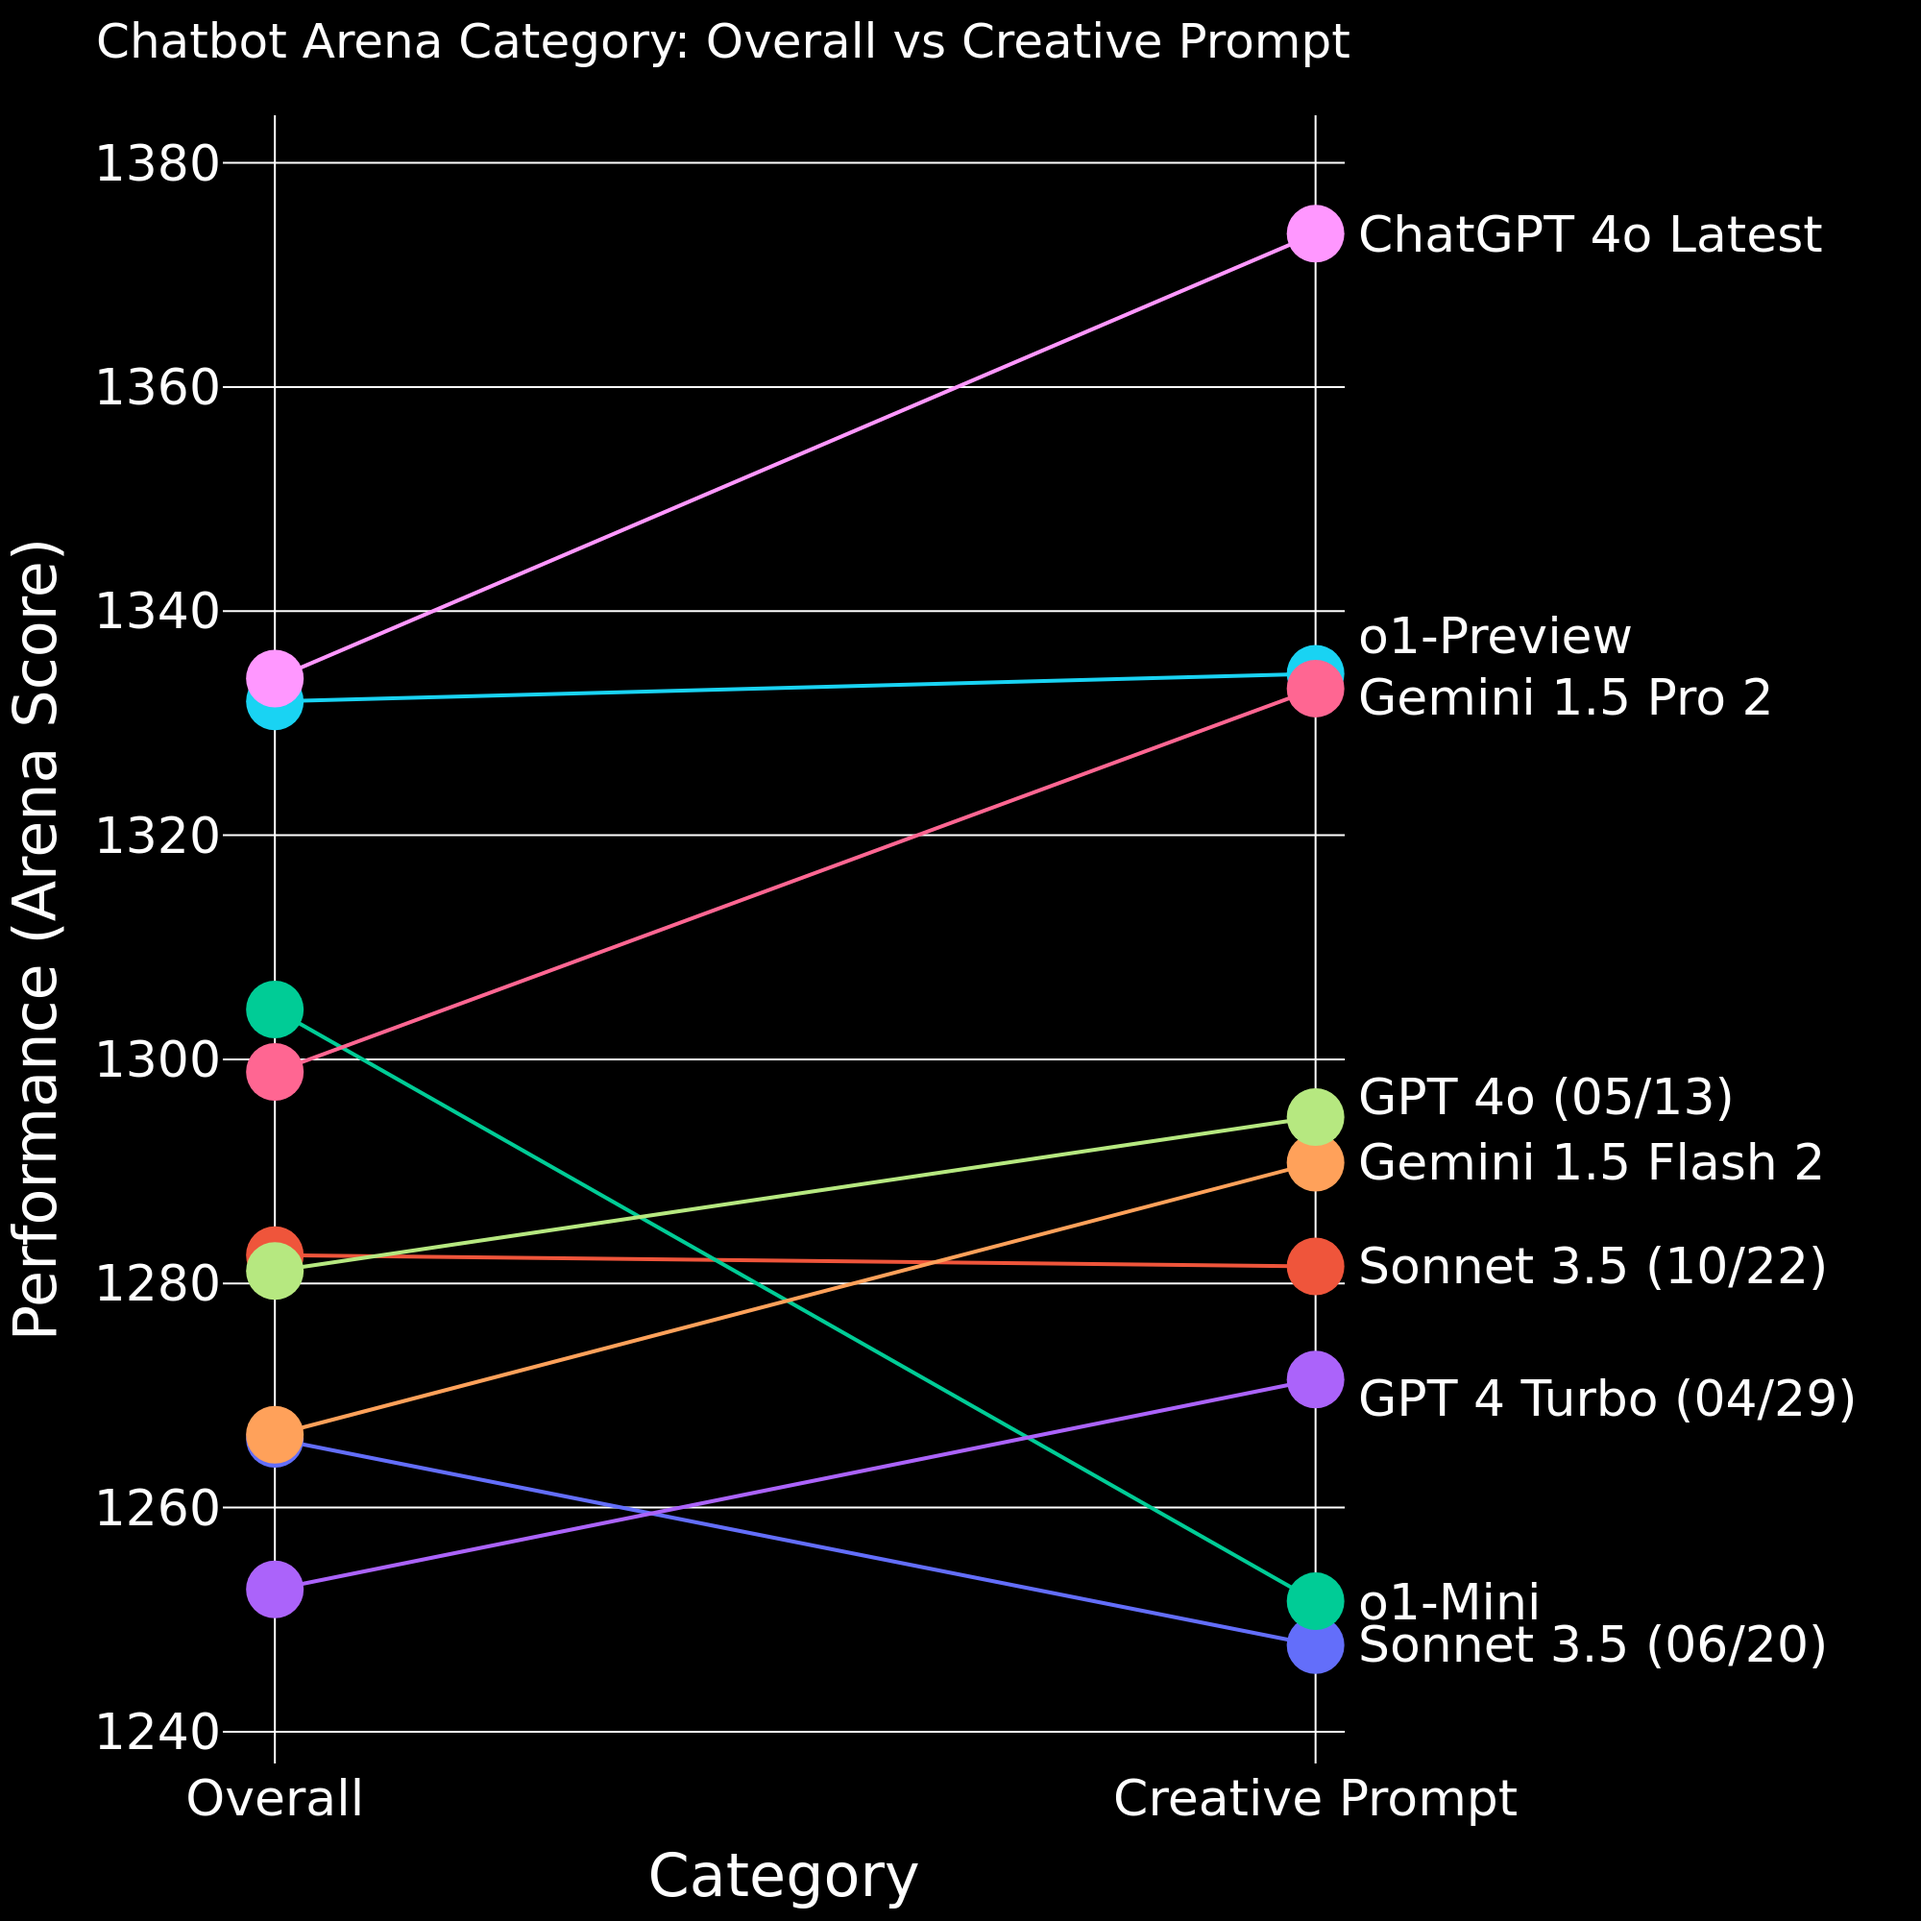
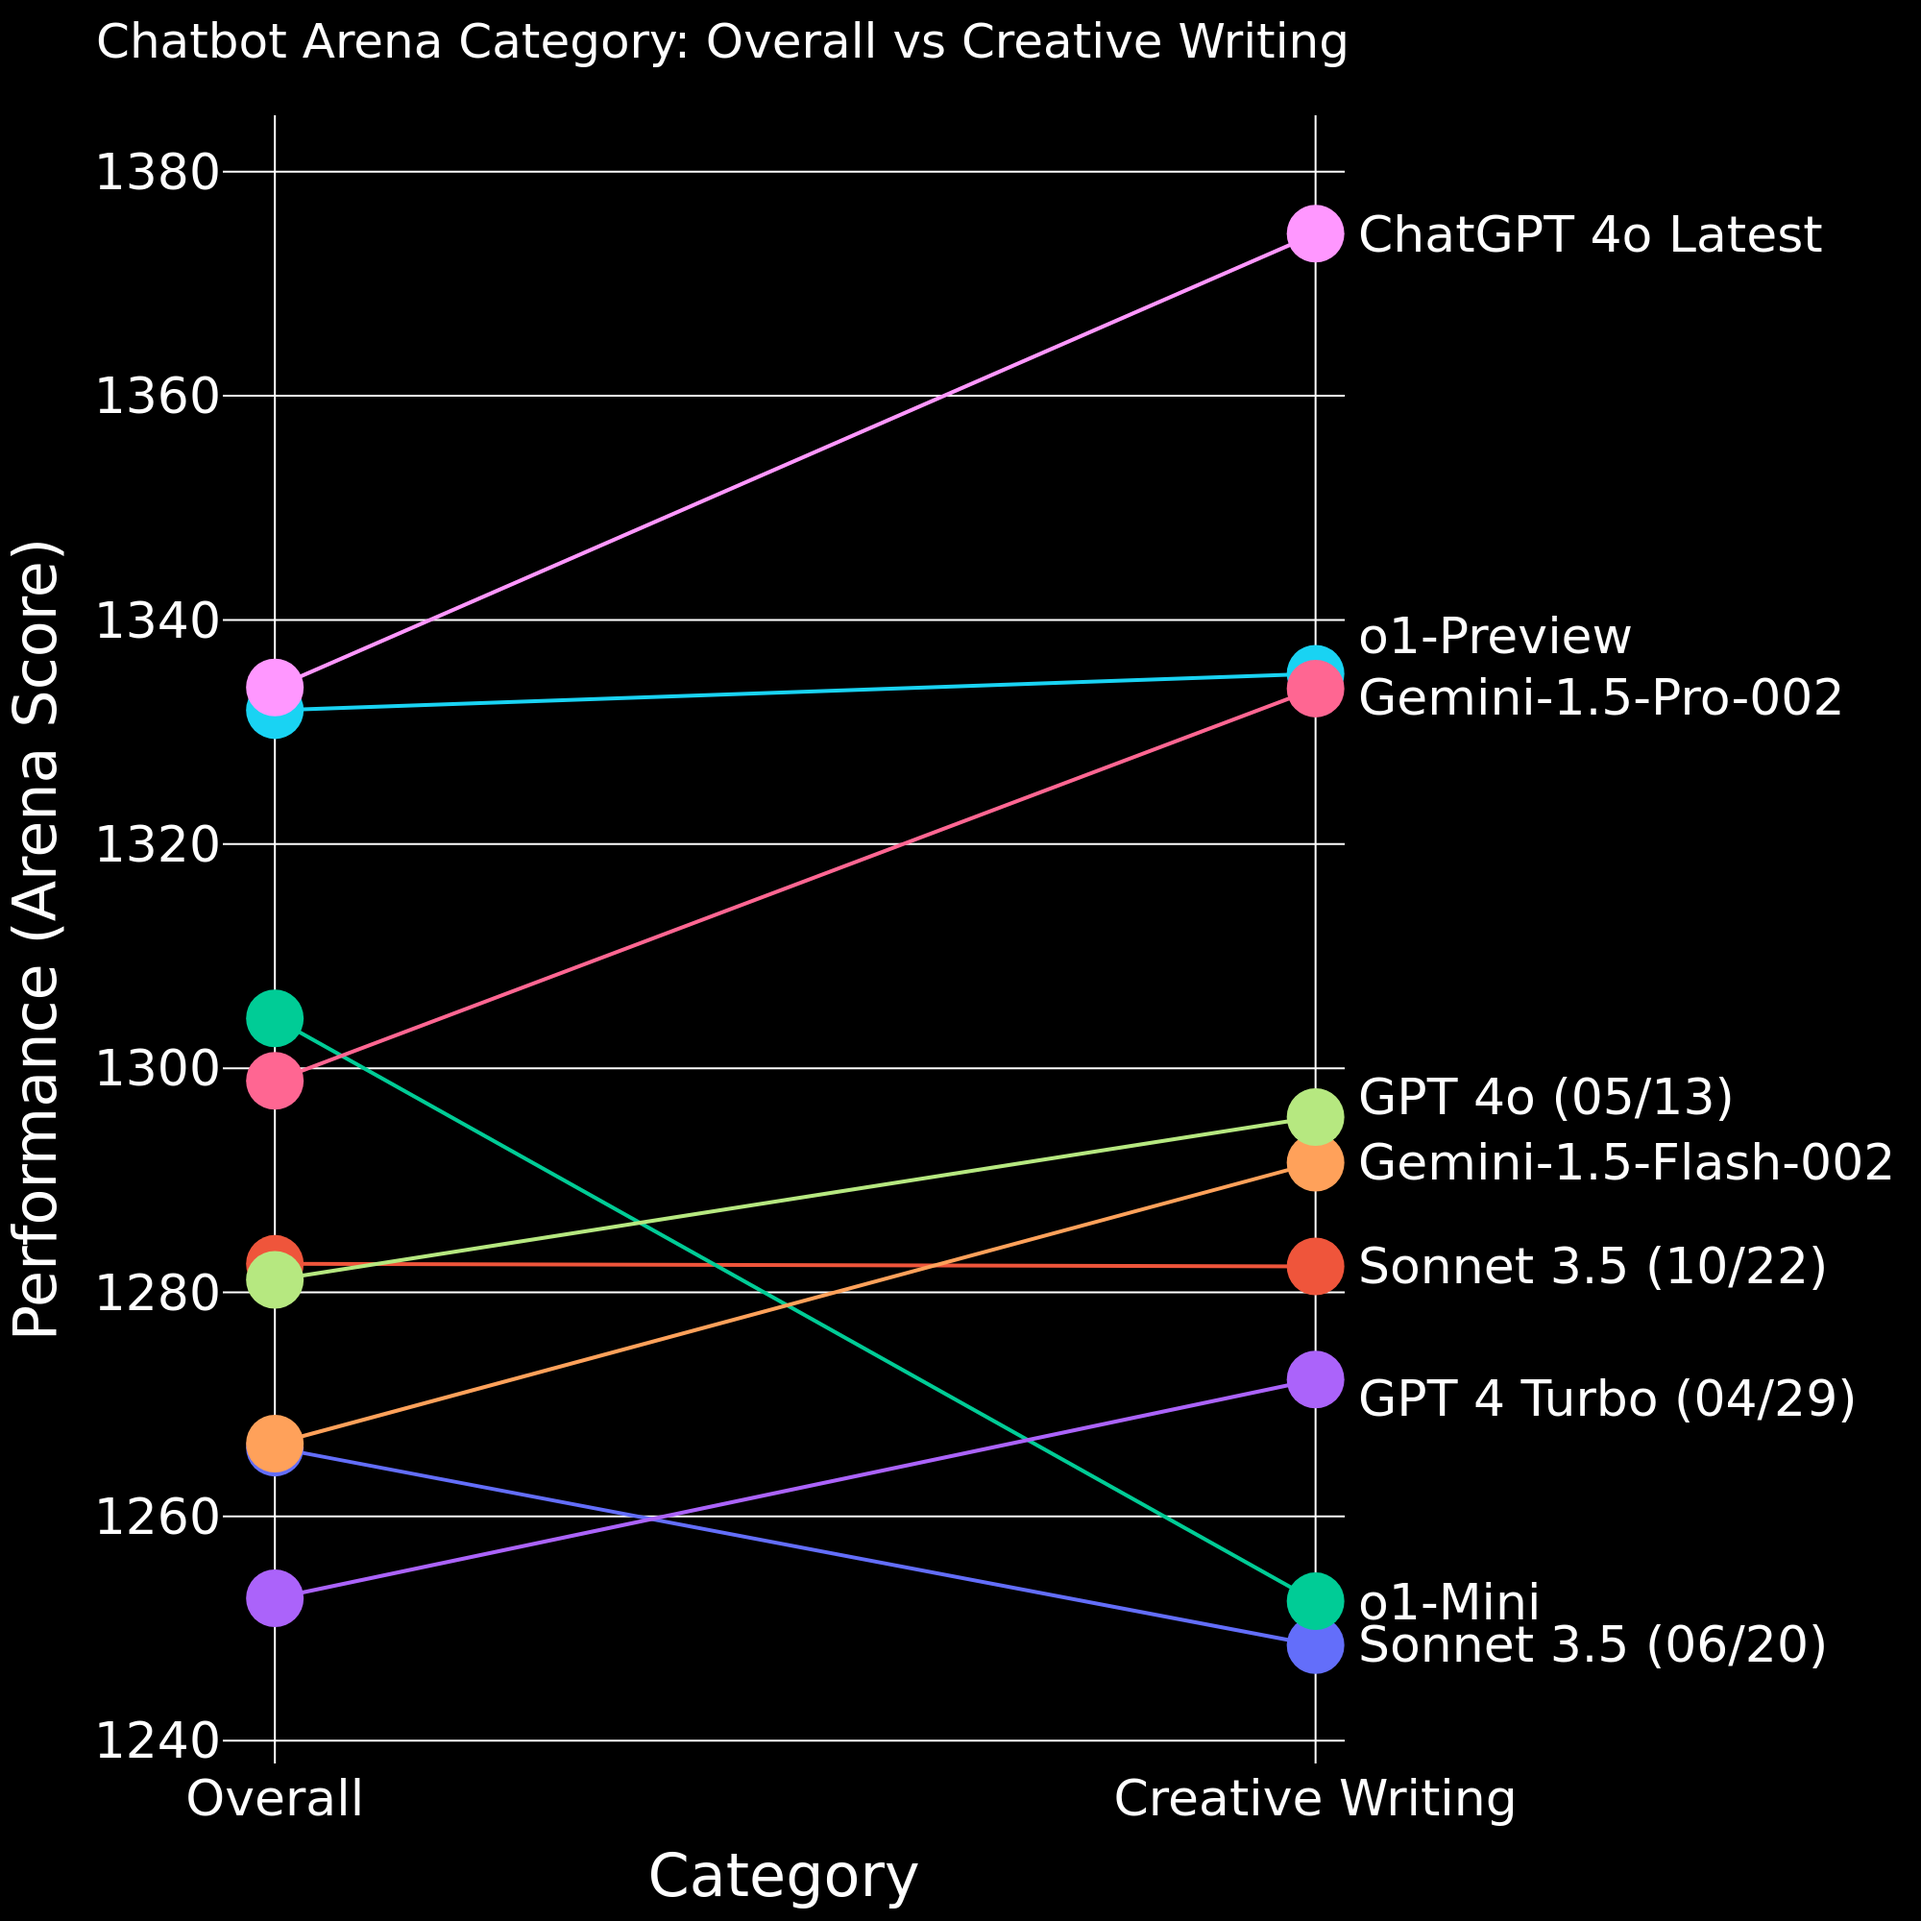
finalize

diff --git a/_posts/2024-10-30-arena-category.md b/_posts/2024-10-30-arena-category.md
@@ -4,7 +4,7 @@ title: Chatbot Arena Categories
 description: Definitions, Methods, and Insights
 
 giscus_comments: true
-date: 2024-10-29
+date: 2024-10-30
 featured: true
 thumbnail: assets/img/blog/arena_category/pfp.png
 authors:
@@ -14,10 +14,10 @@ authors:
       name: UC Berkeley
   - name: Yifan Song
     url: "https://www.linkedin.com/in/yf-song/"
-  - name: Evan Frick
-    url: "https://efrick2002.github.io/"
   - name: Wei-Lin Chiang
     url: "https://infwinston.github.io/"
+  - name: Evan Frick
+    url: "https://efrick2002.github.io/"
   - name: Anastasios N. Angelopoulos
     url: "http://angelopoulos.ai"
 ---
@@ -240,10 +240,10 @@ We acknowledge that a high-ranking on the overall leaderboard doesn’t imply th
 
 Our newest category, creative writing, evaluates a model's ability to craft original, imaginative, and emotionally resonant content. Unlike straightforward writing tasks, creative writing prompts involve originality, artistic expression, and often, a different kind of thinking compared to more technical prompts. For instance, while "write a thank-you email" wouldn't qualify as creative writing, "write a humorously sarcastic thank-you email" would. The category encompasses traditional creative formats (stories, poems, lyrics) and extends to areas like joke creation, meme explanation, and responses to philosophical questions that can't be answered through simple fact-checking.
 
-We note that this category is in a sense, orthogonal, to our previously introduced categories, such as Math and Coding. As such, we find interesting differences in rankings when looking at creative prompts. Studying categories like creativity is important— the ranking signal on this type of prompts are innately dependent on human preference, and are difficult to obtain from traditional close-ended benchmarks without human-in-the-loop.
+We note that this category is in a sense, orthogonal, to our previously introduced categories, such as Math and Coding. As such, we find interesting differences in rankings when looking at creative writing. Studying categories like creativity is important— the ranking signal on this type of prompts are innately dependent on human preference, and are difficult to obtain from traditional close-ended benchmarks without human-in-the-loop.
 
 <img src="/assets/img/blog/arena_category/creative_prompt_diff_1.png" style="display:block; margin-top: auto; margin-left: auto; margin-right: auto; margin-bottom: auto; width: 90%">
-<p style="color:gray; text-align: center;">Figure 1: Ranking deltas from Overall Leaderboard to Creative Prompt Leaderboard.</p>
+<p style="color:gray; text-align: center;">Figure 1: Ranking deltas from Overall Leaderboard to Creative Writing Leaderboard.</p>
 
 ## Defining and assigning the categories
 
@@ -274,7 +274,7 @@ The Label Bench framework is as follows:
    Verification: Evaluate the smaller classifier against the ground truth labels on the sample battles. We typically iterate until reaching a high precision and recall.
 4. Deploy: The best classifier and optimal system prompt are chosen to label the entire Chatbot Arena dataset.
 
-For example, when developing our new creative prompt category using the Label Bench framework, we found that with no CoT, Llama-3.1-70B-Instruct classified the prompts with 96.1% accuracy (precision: 66.7%, recall: 96.6%) with respect to high-quality labels generated by GPT-4o-mini with CoT. We also cross check this classifier against labels generated by Claude 3.5 Sonnet with COT. After ensuring its performance, we deployed this scalable LLM for the final labeling of our 2 million battle prompts.
+For example, when developing our new creative writing category using the Label Bench framework, we found that with no CoT, Llama-3.1-70B-Instruct classified the prompts with 96.1% accuracy (precision: 66.7%, recall: 96.6%) with respect to high-quality labels generated by GPT-4o-mini with CoT. We also cross check this classifier against labels generated by Claude 3.5 Sonnet with COT. After ensuring its performance, we deployed this scalable LLM for the final labeling of our 2 million battle prompts.
 
 After data labeling, we can compute the Chatbot Arena leaderboard only on the subset of Arena battles labeled as belonging to the category in order to produce a category-specific leaderboard.
 
@@ -312,12 +312,12 @@ Now that we’ve examined the broad relationships between categories, let's dive
 <img src="/assets/img/blog/arena_category/o1_mini_dark.png" style="display:block; margin-top: auto; margin-left: auto; margin-right: auto; margin-bottom: auto; width: 90%">
 <p style="color:gray; text-align: center;">Figure 5. o1 Mini’s win-rate conditioned on categories as fitted using a standard decision tree algorithm. Blue indicates o1 Mini wins more often while orange means o1 Mini loses. The selected battles are o1 mini against other models with similar performances (grok-2-2024-08-13, gemini-1.5-pro-002, o1-preview, gpt-4o-mini-2024-07-18, gpt-4o-2024-05-13, chatgpt-4o-latest-20240903).</p>
 
-In Figure 5, we observed o1 Mini’s win-rate conditioned on specific categories, providing a visual map of its strengths and weaknesses. In math and hard prompts, o1 Mini performs significantly better, indicated by the blue half of the decision tree. On the other hand, o1 Mini struggles on creative prompts when compared to other models.
+In Figure 5, we observed o1 Mini’s win-rate conditioned on specific categories, providing a visual map of its strengths and weaknesses. In math and hard prompts, o1 Mini performs significantly better, indicated by the blue half of the decision tree. On the other hand, o1 Mini struggles on creative writing when compared to other models.
 
 <img src="/assets/img/blog/arena_category/gemini-1.5-pro-2_dark.png" style="display:block; margin-top: auto; margin-left: auto; margin-right: auto; margin-bottom: auto; width: 90%">
 <p style="color:gray; text-align: center;">Figure 6. Gemini-1.5-Pro-002’s win-rate conditioned on categories as fitted using a standard decision tree algorithm. The selected battles are Gemini-1.5-Pro-002 against top Chatbot Arena models (o1-preview, o1-mini, chatgpt-4o-latest-20240903, claude-3-5-sonnet-20240620, yi-lightning).</p>
 
-Unlike o1-mini, Gemini-1.5-Pro-002 demonstrates exceptional performance on creative prompts compared to other top models, as illustrated in Figure 6. However, its performance on coding tasks remains a notable weakness.
+Unlike o1-mini, Gemini-1.5-Pro-002 demonstrates exceptional performance on creative writing compared to other top models, as illustrated in Figure 6. However, its performance on coding tasks remains a notable weakness.
 
 <img src="/assets/img/blog/arena_category/yi-lightning_dark.png" style="display:block; margin-top: auto; margin-left: auto; margin-right: auto; margin-bottom: auto; width: 90%">
 <p style="color:gray; text-align: center;">Figure 7. Yi-Lightning’s win-rate conditioned on categories as fitted using a standard decision tree algorithm. The selected battles are Yi-Lightning against top Chatbot Arena models (o1-mini, gemini-1.5-pro-002, gpt-4o-2024-05-13, claude-3-5-sonnet-20240620, glm-4-plus).</p>
@@ -328,28 +328,17 @@ Our analysis of Yi-Lightning, a recent state-of-the-art Chinese LLM, also shows 
 
 Want to see another category on the leaderboard? Contribute! Our project is open-source, and we’re excited to invite contributions from the community. Whether you have ideas for new categories (not just text, even for vision models), suggestions for refining existing ones, or even want to improve our classifiers, there’s plenty of room for collaboration.
 
-Code for the classifier: [repo link](https://github.com/lm-sys/FastChat/tree/main/fastchat/serve/monitor/classify)
+Code for the classifiers: [repo link](https://github.com/lm-sys/FastChat/tree/main/fastchat/serve/monitor/classify)
 
-Micro Label Benchmark: [huggingface link](https://huggingface.co/datasets/lmarena-ai/categories-benchmark-eval)
+Label Bench Dataset: [huggingface link](https://huggingface.co/datasets/lmarena-ai/categories-benchmark-eval)
+
+Battle examples for categories: [huggingface link](https://huggingface.co/spaces/lmarena-ai/arena-example)
 
 🚀 Join Us in Making Chatbot Arena Even Better!
 
 We’d love your help in enhancing Chatbot Arena! Whether it’s tuning and improving our classifiers, validating results, or even suggesting new categories we haven’t explored yet, every contribution makes a difference.
 
 Together, we can shape the future of LLM evaluation and create tools that truly serve the community. Let’s push the boundaries and make Chatbot Arena the best it can be!
-
-## Citation
-
-```
-@misc{chiang2024chatbot,
-    title={Chatbot Arena: An Open Platform for Evaluating LLMs by Human Preference},
-    author={Wei-Lin Chiang and Lianmin Zheng and Ying Sheng and Anastasios Nikolas Angelopoulos and Tianle Li and Dacheng Li and Hao Zhang and Banghua Zhu and Michael Jordan and Joseph E. Gonzalez and Ion Stoica},
-    year={2024},
-    eprint={2403.04132},
-    archivePrefix={arXiv},
-    primaryClass={cs.AI}
-}
-```
 
 ## Appendix
 
@@ -505,3 +494,16 @@ Below we present strengths and weaknesses decision trees for GPT-4o-mini and Cla
 > print(sum(squares of [(populations mod 23) of the US over the last 3 years]))\n\nconvert this to python and show the results\n\n\n\n
 
 > What's the flaw with this code?\n\npython\n def has_conflict(self, new_data):\n if not os.path.exists(self.local_path):\n return False\n \n local_modified_at = datetime.fromtimestamp(os.path.getmtime(self.local_path), tz=datetime.now().astimezone().tzinfo)\n local_synced_at = self.modified_at\n remote_modified_at = datetime.fromisoformat(new_data['modified_at'])\n\n if local_modified_at != local_synced_at and local_modified_at != remote_modified_at:\n return True\n \n return False\n
+
+## Citation
+
+```
+@misc{chiang2024chatbot,
+    title={Chatbot Arena: An Open Platform for Evaluating LLMs by Human Preference},
+    author={Wei-Lin Chiang and Lianmin Zheng and Ying Sheng and Anastasios Nikolas Angelopoulos and Tianle Li and Dacheng Li and Hao Zhang and Banghua Zhu and Michael Jordan and Joseph E. Gonzalez and Ion Stoica},
+    year={2024},
+    eprint={2403.04132},
+    archivePrefix={arXiv},
+    primaryClass={cs.AI}
+}
+```
